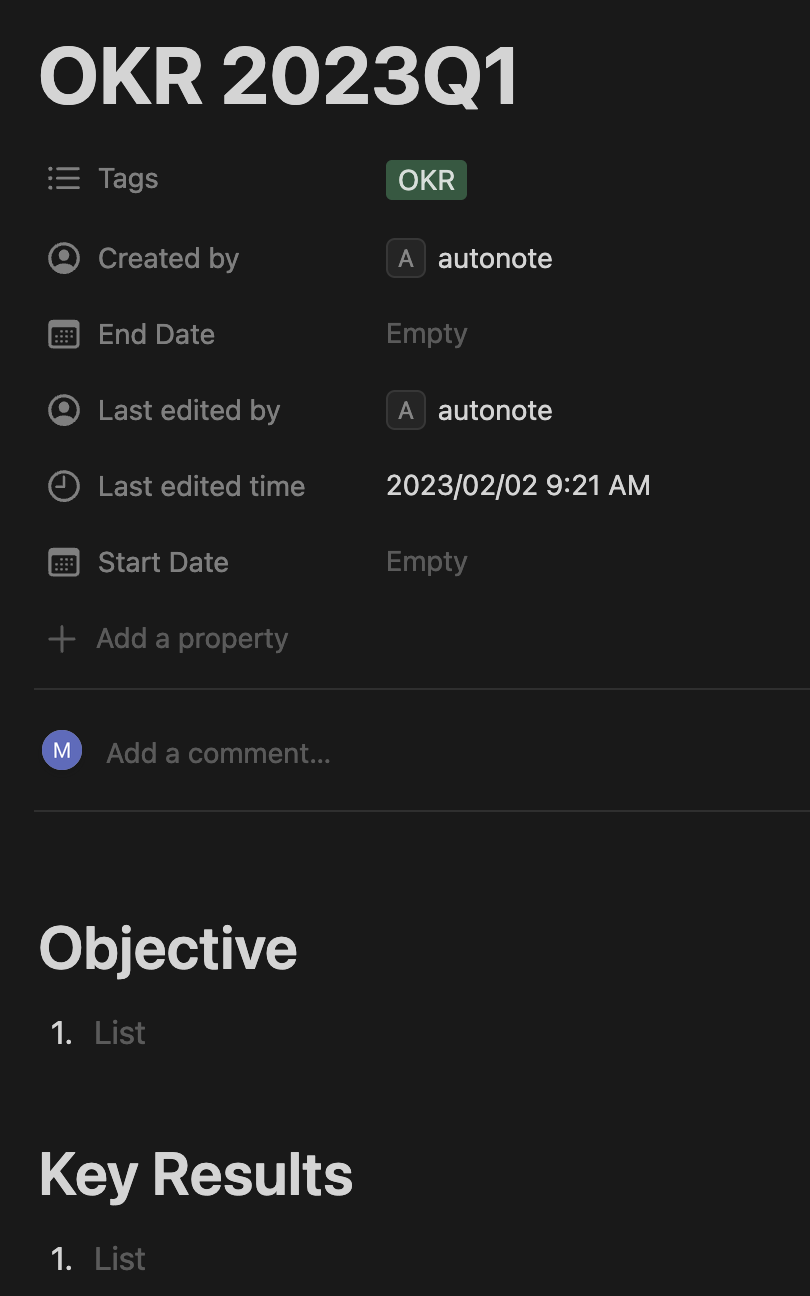
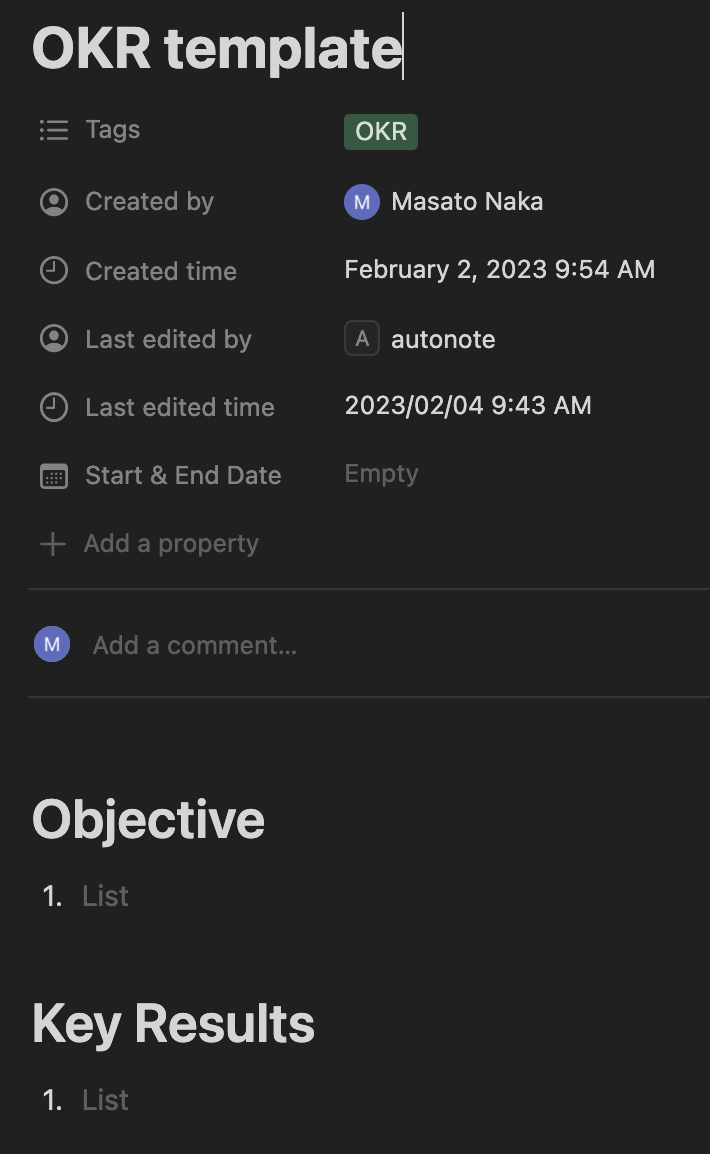
feat: enable to specify dynamic values for notion

diff --git a/tests/test_notion.py b/tests/test_notion.py
@@ -40,13 +40,25 @@ def test_notion_page_with_properties_tag():
     page.update_properties(properties=properties)
     assert page.properties == {
         "title": [{"type": "text", "text": {"content": "test title"}}],
-        "Tags": [{"name": "OKR"}],
+        "Tags": [
+            {
+                "id": "f385f958-c732-4b78-986b-4ec5146c0fa6",
+                "name": "OKR",
+                "color": "green",
+            }
+        ],
     }
 
     page = NotionPage(title="test title", body="test body", properties=properties)
     assert page.properties == {
         "title": [{"type": "text", "text": {"content": "test title"}}],
-        "Tags": [{"name": "OKR"}],
+        "Tags": [
+            {
+                "id": "f385f958-c732-4b78-986b-4ec5146c0fa6",
+                "name": "OKR",
+                "color": "green",
+            }
+        ],
     }
 
 
@@ -62,13 +74,13 @@ def test_notion_page_with_properties_date():
     page.update_properties(properties=properties)
     assert page.properties == {
         "title": [{"type": "text", "text": {"content": "test title"}}],
-        "k%3A%7Bd": {"start": "2023-02-04", "end": "2023-02-10", "time_zone": None},
+        "Start Date": {"start": "2023-02-04", "end": "2023-02-10", "time_zone": None},
     }
 
     page = NotionPage(title="test title", body="test body", properties=properties)
     assert page.properties == {
         "title": [{"type": "text", "text": {"content": "test title"}}],
-        "k%3A%7Bd": {"start": "2023-02-04", "end": "2023-02-10", "time_zone": None},
+        "Start Date": {"start": "2023-02-04", "end": "2023-02-10", "time_zone": None},
     }
 
 
@@ -87,7 +99,7 @@ def test_notion_page_with_properties_select():
     page = NotionPage(title="test title", body="test body", properties=properties)
     assert page.properties == {
         "title": [{"type": "text", "text": {"content": "test title"}}],
-        "qyqF": {
+        "Size": {
             "id": "59a6cc39-cbe3-4cac-a013-6928a3b0705b",
             "name": "small",
             "color": "pink",
@@ -107,13 +119,13 @@ def test_notion_page_with_properties_empty():
     page.update_properties(properties=properties)
     assert page.properties == {
         "title": [{"type": "text", "text": {"content": "test title"}}],
-        "k%3A%7Bd": None,
+        "Start Date": None,
     }
 
     page = NotionPage(title="test title", body="test body", properties=properties)
     assert page.properties == {
         "title": [{"type": "text", "text": {"content": "test title"}}],
-        "k%3A%7Bd": None,
+        "Start Date": None,
     }
 
 
@@ -137,13 +149,31 @@ def test_notion_page_cannot_update_title():
     ]
 
 
-# def test_notion_page_with_value():
-#     properties = {
-#         "Start Date": {
-#             "id": "k%3A%7Bd",
-#             "type": "date",
-#             "date": {"start": None, "end": None, "time_zone": None},
-#         }
-#     }
-#     page = NotionPage(title="test", body="test", properties=properties)
-#     pass
+def test_notion_page_update_template_property_with_value_date():
+    properties = {
+        "Start Date": {
+            "id": "k%3A%7Bd",
+            "type": "date",
+            "date": {"start": None, "end": None, "time_zone": None},
+        }
+    }
+    kwargs = {"Start Date": {"start": "2023-02-04", "end": "2023-02-10"}}
+    page = NotionPage(title="test", body="test", properties=properties, **kwargs)
+    assert page.properties["Start Date"] == {
+        "start": "2023-02-04",
+        "end": "2023-02-10",
+        "time_zone": None,
+    }
+
+
+def test_notion_page_update_none_template_property_with_value_date():
+    properties = {
+        "Start Date": {
+            "id": "k%3A%7Bd",
+            "type": "date",
+            "date": None,
+        }
+    }
+    kwargs = {"Start Date": {"start": "2023-02-04", "end": "2023-02-10"}}
+    page = NotionPage(title="test", body="test", properties=properties, **kwargs)
+    assert page.properties["Start Date"] == {"start": "2023-02-04", "end": "2023-02-10"}

diff --git a/src/autonote/notion.py b/src/autonote/notion.py
@@ -80,20 +80,30 @@ class NotionPage:
             # skip title
             if v["type"] == "title":
                 continue
-            elif v["type"] in {"created_by", "last_edited_by", "last_edited_time"}:
+            elif v["type"] in {
+                "created_by",
+                "last_edited_by",
+                "last_edited_time",
+                "created_time",
+            }:
                 continue
-            elif v["type"] == "multi_select":
-                self.properties[k] = [{"name": e["name"]} for e in v["multi_select"]]
             else:
-                # TODO: this might not work for some data time.
-                self.properties[v["id"]] = v[v["type"]]
+                # TODO: this might not work for some data type.
+                self.properties[k] = v[v["type"]]
+                print(f"update property {k}: {v[v['type']]}")
 
         # update value from kwargs
         for k, v in kwargs.items():
             if k in self.properties:
-                cur = self.properties[k]
-                print(f"update property: {k}, cur: {cur}, v: {v}")
-                # self.properties[v["id"]] = v
+                if self.properties[k] is None:
+                    self.properties[k] = v
+                else:
+                    self.properties[k].update(v)
+                print(
+                    f"update property with value ({v}). new: {k}: {self.properties[k]}"
+                )
+            else:
+                print(f"{k} is not in properties")
 
     def update_contents(self, contents: dict) -> None:
         self.contents = [
@@ -151,7 +161,7 @@ class NotionClient:
             title=title,
             contents=blk["results"],
             properties=tpl["properties"],
-            kwargs=kwargs,  # update properties
+            **kwargs,  # update properties
         )
         contents_kwargs = notion_page.database_content(parent_database_id=database_id)
 

diff --git a/examples/create_notion_page_from_template_with_value.py b/examples/create_notion_page_from_template_with_value.py
@@ -1,0 +1,11 @@
+from autonote.notion import NotionClient
+
+client = NotionClient()
+
+kwargs = {"Start & End Date": {"start": "2023-01-01", "end": "2023-03-31"}}
+client.create_page_from_template(
+    template_id="ffbf0ff4a80047fa84fa741ad8bcfbe9",
+    title="OKR 2023Q1",
+    override=True,
+    **kwargs
+)

diff --git a/examples/create_notion_page_from_template.py b/examples/create_notion_page_from_template.py
@@ -1,0 +1,9 @@
+from autonote.notion import NotionClient
+
+client = NotionClient()
+
+client.create_page_from_template(
+    template_id="ffbf0ff4a80047fa84fa741ad8bcfbe9",
+    title="OKR template",
+    override=True,
+)

diff --git a/examples/create_notion_page.py b/examples/create_notion_page.py
@@ -1,0 +1,9 @@
+from autonote.notion import NotionClient
+
+client = NotionClient()
+client.create_page(
+    parent_page_id="5d98fac8f41d4801b3c337be70dabba1",
+    title="title",
+    body="body",
+    override=True,
+)

diff --git a/README.md b/README.md
@@ -112,15 +112,24 @@ Generated page:
 <img src="docs/notion_page_1.png" width="200px" />
 </td></tr></table>
 
-### 2.3. template + values
+### 2.3. Create Notion page from a template with dynamic values
 
-Template with some values
+```python
+from autonote.notion import NotionClient
 
-template:
+client = NotionClient()
+kwargs={"Date": {"start": "2023-01-01", "end": "2023-03-31"}}
+client.create_page_from_template(
+    template_id="<template_id>",
+    title="OKR 2023Q1",
+    override=True,
+    **kwargs
+)
+```
 
-- `title`: YYYY-MM-DD test title
-- `date`: <pass date>
-
+<table><tr><td>
+<img src="docs/notion_page_2.png" width="200px" />
+</td></tr></table>
 
 
 ## Credits
